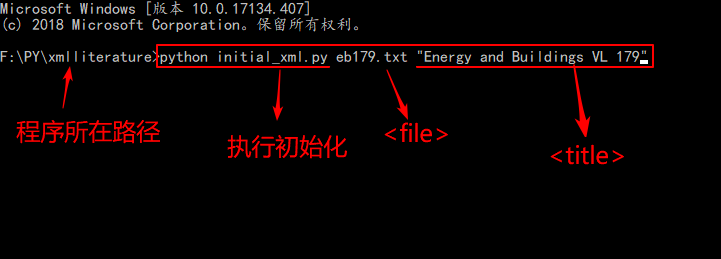
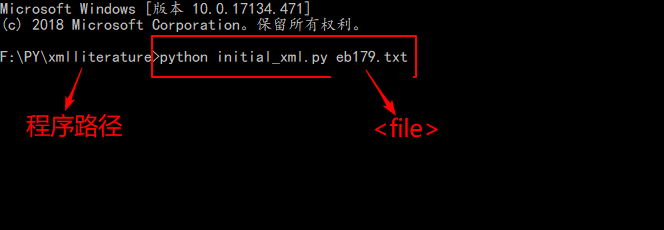
remove title paramenter

diff --git a/getdata.py b/getdata.py
@@ -24,6 +24,12 @@ def filed_ext(filed, record):
     else:
         return ' '
 
+def get_source(record):
+    so = filed_ext('SO',record)
+    so = so.title().rstrip('\n')
+    vl = filed_ext('VL',record).rstrip('\n')
+
+    return '{} VL {}'.format(so, vl)
 
 def get_title(ti):
     return ti.replace('\n', '').replace('   ', ' ')
@@ -88,37 +94,37 @@ def get_abs_html(abst):
 #         return ' '
 
 
-def get_js(result):
-    doi_list = [get_doi(filed_ext("DI", result[i])) for i in range(len(result))]
-    pool = Pool()
-    src_list = pool.map(get_img, doi_list)
-    # src_list = [get_img(doi_list[i]) for i in range(len(result))]
+# def get_js(result):
+#     doi_list = [get_doi(filed_ext("DI", result[i])) for i in range(len(result))]
+#     pool = Pool()
+#     src_list = pool.map(get_img, doi_list)
+#     # src_list = [get_img(doi_list[i]) for i in range(len(result))]
+#
+#     with open("lite.js", 'w') as f:
+#         total = ""
+#         total += 'var data = [\n'
+#         for i in range(len(result)):
+#             title = get_title(filed_ext("TI", result[i]))
+#             authors, affiliations = get_author(filed_ext('C1', result[i]), filed_ext('AF', result[i]))
+#             abstracts = get_abs_html(filed_ext("AB", result[i]))
+#             doi = doi_list[i]
+#             if i == 0:
+#                 one = '{\n"title":"' + title + '",\n"authors":' + str(authors) + ',\n"affiliations":' + str(
+#                     affiliations) + ',\n"abstract":' + str(abstracts) + ',\n"img":[\n{"src":"' + str(
+#                     src_list[i]) + '","desc":"FIND THAT","width":400}],\n"article-link":"' + str(
+#                     doi) + '"}'
+#             else:
+#                 one = ',\n{\n"title":"' + title + '",\n"authors":' + str(authors) + ',\n"affiliations":' + str(
+#                     affiliations) + ',\n"abstract":' + str(abstracts) + ',\n"img":[\n{"src":"' + str(
+#                     src_list[i]) + '","desc":"FIND THAT","width":400}],\n"article-link":"' + str(
+#                     doi) + '"}'
+#
+#             total += one
+#         total += '\n];'
+#         f.write(total)
 
-    with open("lite.js", 'w') as f:
-        total = ""
-        total += 'var data = [\n'
-        for i in range(len(result)):
-            title = get_title(filed_ext("TI", result[i]))
-            authors, affiliations = get_author(filed_ext('C1', result[i]), filed_ext('AF', result[i]))
-            abstracts = get_abs_html(filed_ext("AB", result[i]))
-            doi = doi_list[i]
-            if i == 0:
-                one = '{\n"title":"' + title + '",\n"authors":' + str(authors) + ',\n"affiliations":' + str(
-                    affiliations) + ',\n"abstract":' + str(abstracts) + ',\n"img":[\n{"src":"' + str(
-                    src_list[i]) + '","desc":"FIND THAT","width":400}],\n"article-link":"' + str(
-                    doi) + '"}'
-            else:
-                one = ',\n{\n"title":"' + title + '",\n"authors":' + str(authors) + ',\n"affiliations":' + str(
-                    affiliations) + ',\n"abstract":' + str(abstracts) + ',\n"img":[\n{"src":"' + str(
-                    src_list[i]) + '","desc":"FIND THAT","width":400}],\n"article-link":"' + str(
-                    doi) + '"}'
 
-            total += one
-        total += '\n];'
-        f.write(total)
-
-
-def get_xml(result, source):
+def get_xml(result):
     doi_list = [get_doi(filed_ext("DI", result[i])) for i in range(len(result))]
     # pool = Pool()
     # src_list = pool.map(get_img, doi_list)
@@ -130,7 +136,11 @@ def get_xml(result, source):
         total += '<journal>\n'
         for i in range(len(result)):
             title = get_title(filed_ext("TI", result[i]))
+            source = get_source(result[i])
             title = title.replace('&', '&amp;').replace('"', '&quot;').replace("'", '&apos;').replace('>',
+                                                                                                      '&gt;').replace(
+                '<', '&lt;')
+            source = source.replace('&', '&amp;').replace('"', '&quot;').replace("'", '&apos;').replace('>',
                                                                                                       '&gt;').replace(
                 '<', '&lt;')
             authors, affiliations = get_author(filed_ext('C1', result[i]), filed_ext('AF', result[i]))
@@ -223,7 +233,7 @@ def get_zaiyao(result):
         f.write('</html>\n')
 
 
-def initial(file, title):
+def initial(file):
     """
     得到初始的lite.xml和acess.xlsx文件
     :param file:
@@ -234,7 +244,7 @@ def initial(file, title):
 
     result = record_ext(content)
 
-    get_xml(result, title)
+    get_xml(result)
 
     keyword = pd.DataFrame(
         [filed_ext('DE', result[i]).replace('\n', '').replace('   ', ' ') for i in range(len(result))],
@@ -314,3 +324,10 @@ def change(file):
     order = list(numbers['index'])
     order_result = [result[i] for i in order]
     get_zaiyao(order_result)
+
+if __name__ == '__main__':
+    with open('eb179.txt','r', encoding='utf-8') as f:
+        cont = f.read()
+    result = record_ext(cont)
+    for i in range(5):
+        print(get_source(result[i]))

diff --git a/initial_xml.py b/initial_xml.py
@@ -3,8 +3,7 @@ import sys
 
 def main(argv):
     file = argv[0]
-    title = argv[1]
-    gt.initial(file,title)
+    gt.initial(file)
 
 if __name__ == "__main__":
     main(sys.argv[1:])

diff --git a/README.md b/README.md
@@ -12,7 +12,7 @@
 
 3. 执行如下命令初始化`lite.xml`, 以及`xlsx` 文件
 
-   ` python initial_xml.py <file> <title> `
+   ` python initial_xml.py <file>`
 
 4. 修改 `xlsx` 文件（根据标题，关键字手动设置某篇文章可见以及其他）
 
@@ -51,6 +51,7 @@
 ![fig2](image/fig2.png)
 
 2. 命令行执行
+
 
 ![fig3](image/fig3.png)
 ![fig4](image/fig4.png)
